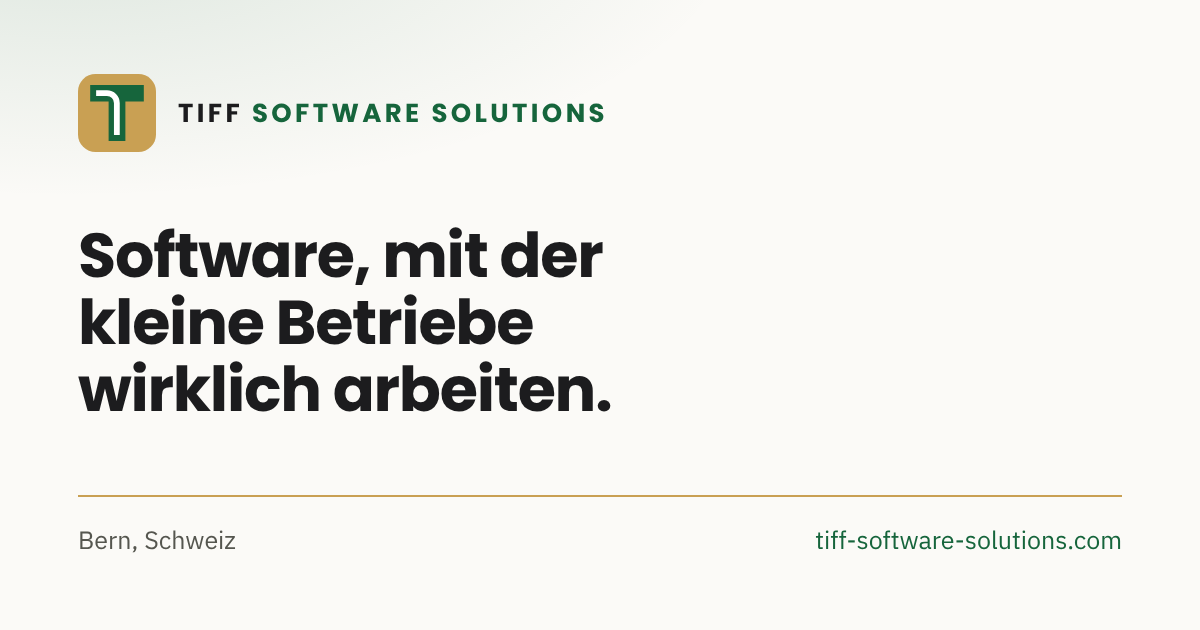
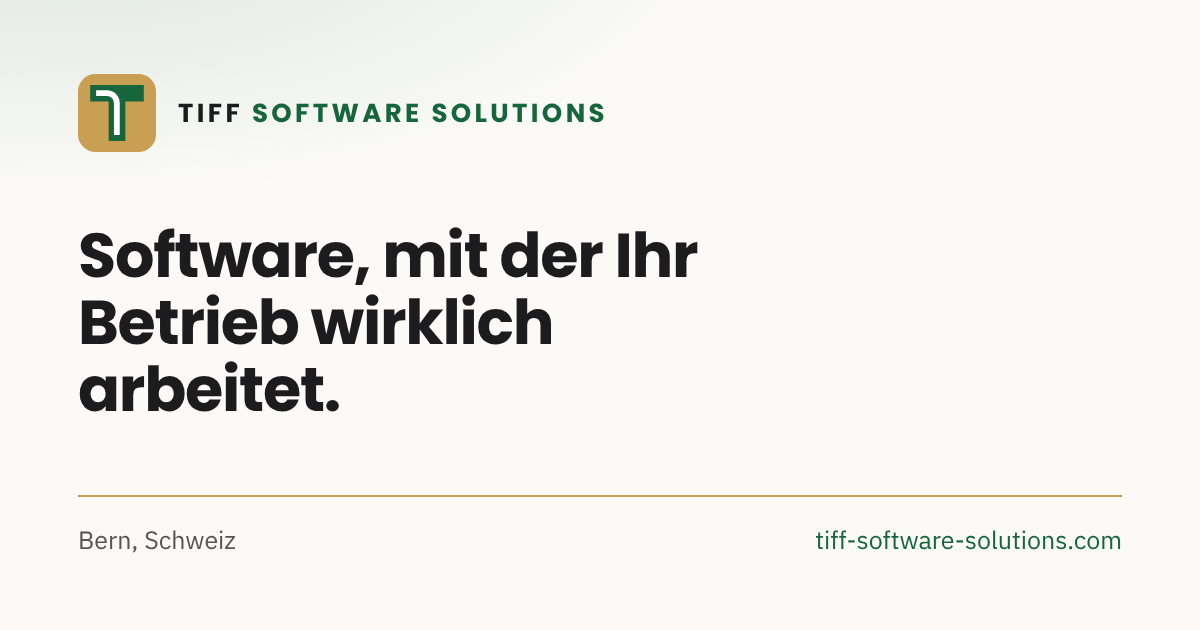
Headline no longer limits the firm to small businesses
«Software, mit der Ihr Betrieb wirklich arbeitet.» / «Software your business
can actually run.»; lede and /about/ now say «KMU und Industrie» / «SMEs and
industry». Share cards regenerated.

Claude-Session: https://claude.ai/code/session_012cBmGbgRRrqpnCtAe5oeQC

Changed region(s): [[0.0617, 0.4524, 0.5242, 0.6635], [0.4933, 0.3619, 0.5858, 0.4524]]

diff --git a/src/data/site.js b/src/data/site.js
@@ -36,7 +36,7 @@ export const SITE = {
   /** Swiss commercial register number (CHE-…), if the business is registered. Optional. */
   uid: null,
 
-  tagline: 'Software small businesses can actually run.',
+  tagline: 'Software your business can actually run.',
   description:
     'Desktop applications, websites and the systems that join them — built for one ' +
     'business at a time, from Bern, Switzerland.',

diff --git a/CLAUDE.md b/CLAUDE.md
@@ -5,7 +5,7 @@ here, the next session will not know it** — that is the lesson the DAS-Manager
 the hard way, and it is why this file exists on day one rather than after the first thing
 is forgotten.
 
-**Last updated: 13 October 2026**
+**Last updated: 14 October 2026**
 
 ---
 
@@ -341,6 +341,15 @@ checked** — confirm before the next upload.
   40px logo, pill menu, 40px search and globe. The wordmark stays «Tiff Software Solutions».
 - **The glowing logo border has 30 % more lights** (`punkte.js`, `?v=2`), same as tiffcore.ch.
 - **Clients added:** Wasserdichter GmbH and Derguti Haustechnik AG (Gianni, 12 October 2026).
+
+## 2f. 14 October 2026 — not only small businesses
+
+Gianni: the headline *«Software, mit der kleine Betriebe wirklich arbeiten»* limited the firm
+to small businesses. **It now reads «Software, mit der Ihr Betrieb wirklich arbeitet.» /
+«Software your business can actually run.»**, and the lede and `/about/` say **«für KMU und
+Industrie» / «for SMEs and industry»** instead of «kleine Betriebe». Both share cards
+(`og.png`, `og-de.png`) were regenerated with the new headline. «Small team» / «kleines
+Unternehmen» stays — that describes the firm, not the customer.
 
 ## 3. The brand is not chosen here
 
